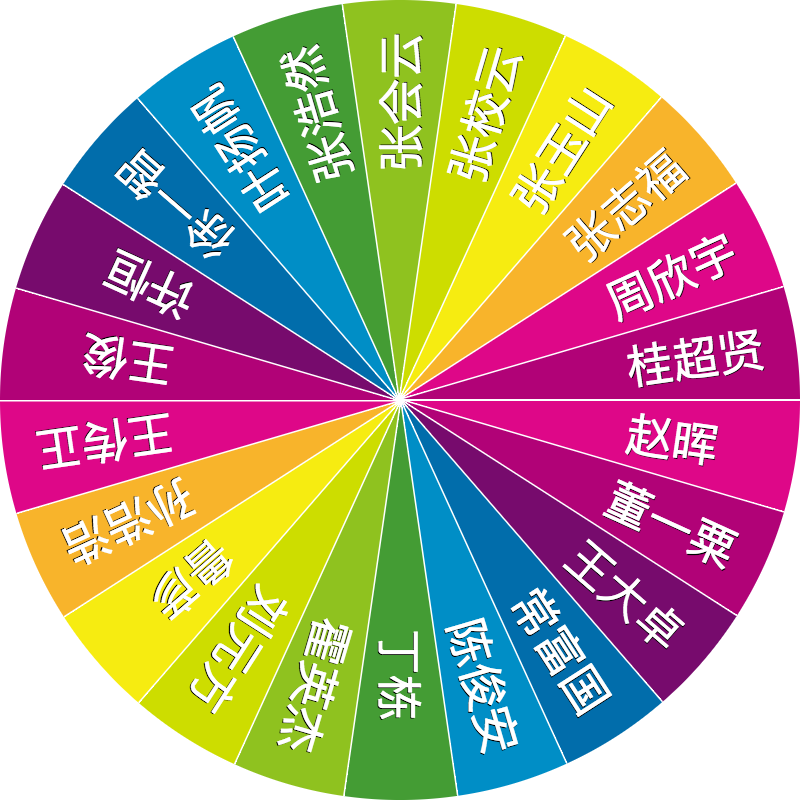
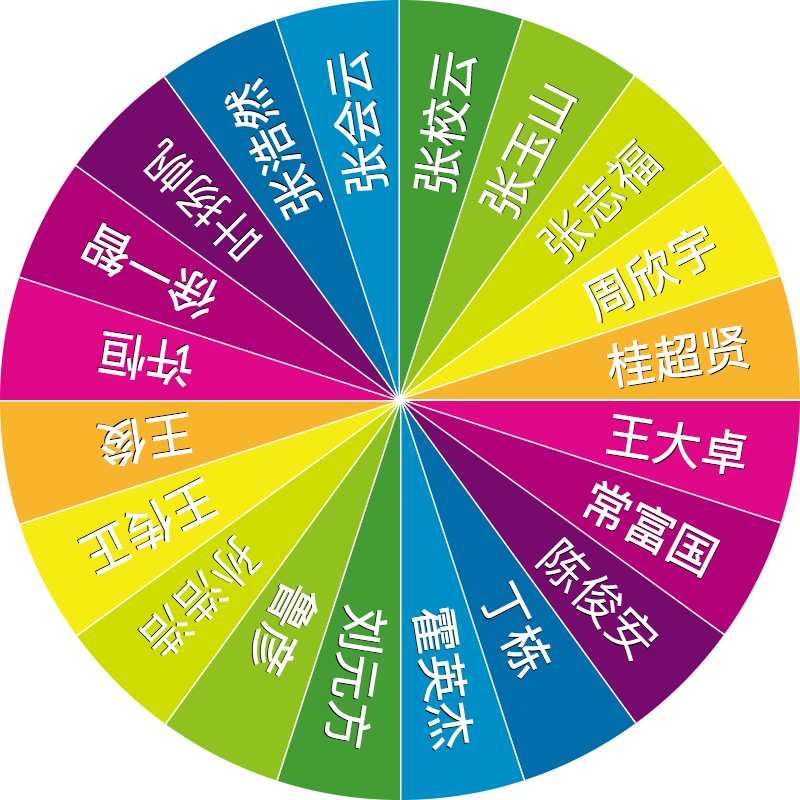
20160128 2nd ci modify zhuanpan.html and zp.png

diff --git a/archives/zhuanpan.html b/archives/zhuanpan.html
@@ -169,7 +169,7 @@ var prize = new PRIZE_ROTATE({
 
 $('.lottery').click(function() {
 
-	var list = ["赵晖","董一粟","王大卓","常富国","陈俊安","丁栋","霍英杰","刘元方","鲁彦","孙浩浩","王传正","王俊","许恒","徐一智","叶扬帆","张浩然","张会云","张校云","张玉山","张志福","周欣宇","桂超贤"];
+	var list = ["王大卓","常富国","陈俊安","丁栋","霍英杰","刘元方","鲁彦","孙浩浩","王传正","王俊","许恒","徐一智","叶扬帆","张浩然","张会云","张校云","张玉山","张志福","周欣宇","桂超贤"];
 	var count = list.length;
 	var index = parseInt(Math.random() * count);
 	var len = 1 / count;
